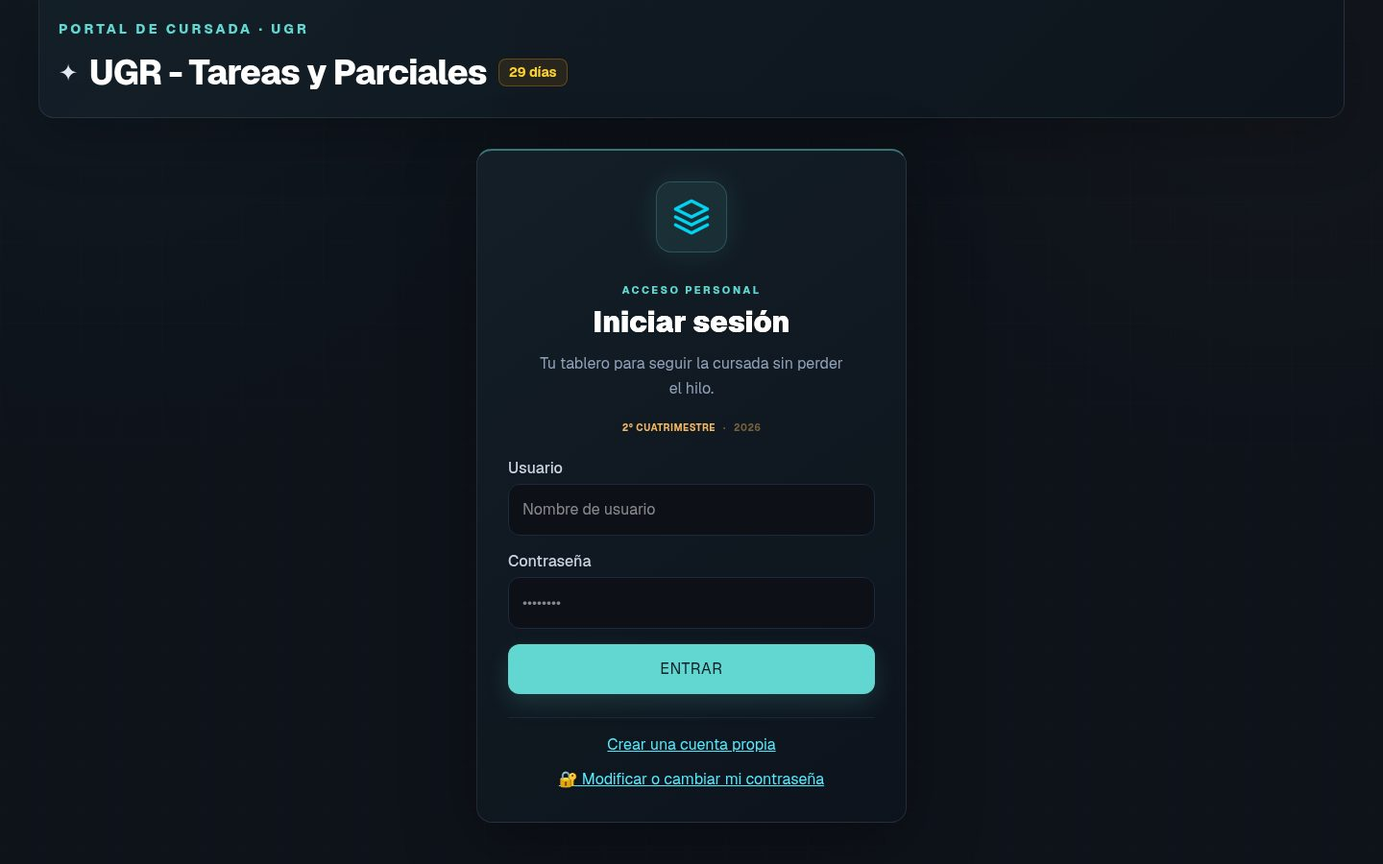
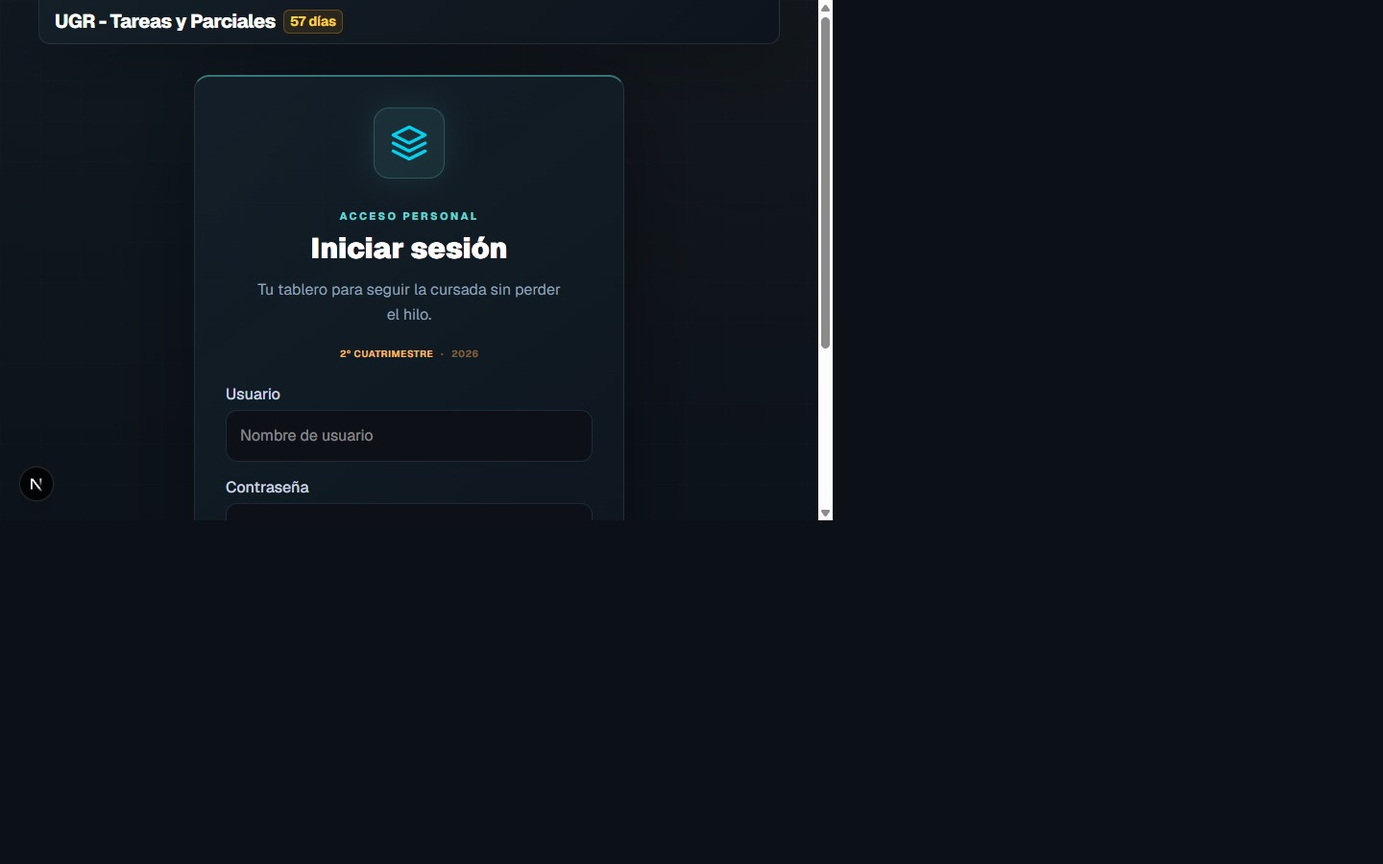
docs: actualiza documentacion y capturas del tablero
Los .md quedaron atrasados respecto a las ultimas funciones (constancias
de SIU, notas de foros calificados, enlace por docente) y las capturas
mostraban pantallas viejas.

- README: arbol actualizado, seccion de Solicitudes y constancias, regla
  del enlace por docente, nota de foros calificados y 'Que no hace' mas
  honesto. Se corrige que la migracion mas alta no esta al final del
  archivo (hoy es la 39) y que CI corre en Node 22.
- SECURITY: secretos, credenciales de terceros (UGR y SIU nunca se
  guardan), sesion, cuentas, headers y superficie.
- UGRTareas: seccion de constancias para la presentacion de la comision.
- CONTEXTO-IA, ugr-sync/README y GUIA-SINCRONIZACION: modulos nuevos.
- Capturas: se regeneran con datos reales y se agregan las de Solicitudes.
- Se borra listarSillasExamen, duplicado sin uso de listarMesasExamen.

diff --git a/README.md b/README.md
@@ -13,6 +13,7 @@ La presentación para la comisión está en [`UGRTareas.md`](UGRTareas.md). Este
 | Stack y arquitectura | [Stack](#stack) · [Topología](#topología) · [Árbol](#árbol) |
 | Datos y permisos | [Modelo de datos](#modelo-de-datos) · [Cuentas y sesión](#cuentas-y-sesión) · [Quién ve qué](#quién-ve-qué) |
 | Campus | [Sincronización](#sincronización-con-el-campus) · [`ugr-sync/README.md`](ugr-sync/README.md) |
+| Constancias | [Solicitudes y constancias](#solicitudes-y-constancias-siu-guaraní) |
 | Poner en marcha | [Entorno](#entorno) · [Local](#correr-en-local) · [Vercel](#despliegue-vercel-hobby) |
 | Repo público | [Qué queda fuera de Git](#repositorio-público-y-qué-queda-fuera-de-git) |
 | Contexto para IAs / handoff | [`docs/CONTEXTO-IA.md`](docs/CONTEXTO-IA.md) |
@@ -21,7 +22,7 @@ La presentación para la comisión está en [`UGRTareas.md`](UGRTareas.md). Este
 
 | Capa | Versión / elección |
 | --- | --- |
-| Runtime | Node 20+ |
+| Runtime | Node 20+ (CI en Node 22) |
 | App | Next.js 16.3.8 (App Router, Turbopack en `next dev`), React 19.2.8 |
 | Lenguaje de la app | TypeScript. El compilador de chequeo es TypeScript 7 (`@typescript/native` → `npm:typescript@^7.0.2`). El paquete `typescript` es el API 6 (`npm:@typescript/typescript6@^6.0.2`) porque ESLint / typescript-eslint no hablan la API de TS 7 |
 | Estilos | Tailwind CSS 4 (`@tailwindcss/postcss`) |
@@ -65,6 +66,7 @@ src/hooks/useTableroPortal.ts  carga, sync, acciones y derivados
 src/hooks/tablero-acciones/  handlers por dominio (alumnos, tareas, parciales, …)
 src/hooks/useTableroAcciones.ts  compone los handlers del tablero
 src/app/actions.tsx       Server Actions, sesión, rate limit, borrado
+src/app/actions/          por dominio: auth, estado, evaluaciones, materias, horarios, sync
 src/app/turso.ts          cliente HTTP de Turso
 src/app/plan-utils.ts     PLAN_DE_ESTUDIO (códigos y correlativas)
 src/app/validators.ts     notas, unidades, habilitación de tarea/parcial
@@ -75,24 +77,30 @@ src/lib/cuentas.ts        limpieza 7 días sin sync UGR, tope por IP, SQL de bor
 src/lib/seguridad.ts      claves temporales, validación HH:MM (sin deps de Next)
 src/lib/grupos-tareas.ts  alta/baja de grupo dentro de una transacción
 src/components/           vistas (estado, materias, grupos, plan, …)
+src/components/portal/ModalOverlay.tsx  base de los modales (variantes sheet/compact/panel)
 ugr-sync/lib/             parsers y núcleo de sync (ver su README)
 ugr-sync/scripts/         CLI login y sync
-database/migrate.mjs      migraciones numeradas, idempotentes (ver último número en el archivo)
+siu-sync/lib/             plan de estudio, constancias y certificados de Guaraní
+database/migrate.mjs      migraciones numeradas, idempotentes (el nº más alto está en el archivo)
 database/planes-cronograma-comision.mjs  planes oficiales (manual) por materia de la comisión
 database/enlaces-clase-comision.json   catálogo Zoom/URL de clase (calendario + sync)
 database/cronograma-higiene.mjs        limpieza de cronograma importado
 database/grupos-schema.mjs
 src/lib/enlaces-clase-comision.ts      resuelve enlace por materia/horario/docente
+src/lib/constancias-vigentes.ts        vigencias y nombres de las constancias de SIU
 src/lib/promocion-materia.ts           reglas de promoción y parcial rendido
+src/lib/importar-plan-siu.ts           importador de notas del plan desde SIU
 ugr-sync/lib/zoom-enlaces-comision.mjs  aplica catálogo a horarios.url_clase
 ugr-sync/lib/zoom-cursada.mjs          empareja enlace con día/hora de cursada
+ugr-sync/lib/foros-notas.mjs           nota de cada publicación en un foro calificado
 tests/                    tests de la app
 ugr-sync/test/            tests del sync, con fixtures HTML de Moodle
+siu-sync/test/            tests de SIU Guaraní
 ```
 
 ## Modelo de datos
 
-SQLite en Turso. Las migraciones viven en `database/migrate.mjs` y se registran en `migraciones(numero, nombre, aplicada_en)`. Correr dos veces no reejecuta un número ya insertado. El **último número** está al final de `migrate.mjs`.
+SQLite en Turso. Las migraciones viven en `database/migrate.mjs` y se registran en `migraciones(numero, nombre, aplicada_en)`. Correr dos veces no reejecuta un número ya insertado. El **número más alto** está en `database/migrate.mjs` (hoy, 39); el orden en el archivo no importa porque el registro de aplicadas es lo que evita el reejecución.
 
 Identidad y cursada:
 
@@ -173,7 +181,7 @@ Un alumno no escribe entregas ni notas propias. Esas filas las escribe el sync (
 
 Un botón **Sincronizar** (UGR o SIU). Ninguna ruta persiste DNI ni contraseña de UGR en la base.
 
-**Alumno** — `sincronizarCuentaUgrAction(dni, password)` o `sincronizarCuentaSiuAction(usuario, password)`. UGR usa `conectarUGRCon({ usuario, contrasena, rutaSesion: null })`: jar aislado, no pisa la cookie de la comisión. Si Moodle rechaza el login, la action responde “UGR Virtual no aceptó ese DNI o contraseña” y no loguea las credenciales. Una sync buena reemplaza las inscripciones del período actual (`inscribirAlumnoEnPeriodo`): la cursada queda en lo que el campus dice ahora. **SIU** hoy solo importa el **plan de estudio** (historia académica / materias en curso); inscripciones a exámenes en Guaraní no se leen aún (`inscripcionesExamenes` queda vacío).
+**Alumno** — `sincronizarCuentaUgrAction(dni, password)` o `sincronizarCuentaSiuAction(usuario, password)`. UGR usa `conectarUGRCon({ usuario, contrasena, rutaSesion: null })`: jar aislado, no pisa la cookie de la comisión. Si Moodle rechaza el login, la action responde “UGR Virtual no aceptó ese DNI o contraseña” y no loguea las credenciales. Una sync buena reemplaza las inscripciones del período actual (`inscribirAlumnoEnPeriodo`): la cursada queda en lo que el campus dice ahora. **SIU** importa el **plan de estudio** (historia académica / materias en curso) y, por separado, habilita el pedido de constancias (ver [Solicitudes y constancias](#solicitudes-y-constancias-siu-guaraní)); inscripciones a exámenes en Guaraní no se leen aún (`inscripcionesExamenes` queda vacío).
 
 **UGR en varias pasadas (cuenta propia y admin en la UI):** un solo botón **Sincronizar** encadena varias server actions para no superar el techo de **60 s por request** (`maxDuration` en `layout.tsx`). Orden: `fase: 'preparar'` (login, inscripciones, lista de materias) → varios lotes `fase: 'materias'` con `materiaIds` (tamaño de lote en `src/lib/sync-ugr-orquestacion.ts`, típicamente 2 materias; 3 si hay muchas) → lotes `fase: 'avisos'`. El texto de progreso habla de pasadas (p. ej. “materias 1/4”), no del total de materias de la cursada. SIU sigue siendo una sola action. Detalle en `src/server/sync-ugr-cursada.ts` y `src/components/CuentaPropia.tsx`.
 
@@ -194,7 +202,38 @@ Reglas de escritura:
 - Tarea ya existente: no se duplica. Se actualiza la fecha si el campus trae una fecha distinta. Una fecha vacía del campus **no borra** la fecha guardada (`fechasACorregir`).
 - Nombre con “parcial” o “evaluación” (`pareceEvaluacion`): es parcial, no tarea con apertura y cierre. Se rinde **un** día de clase. Si apertura y cierre difieren, se queda el día cuyo weekday coincide con `horarios.dia` (1 = lunes … 5 = viernes). La nota no se pide hasta ese día (`parcialYaSeRindio`). La fecha del parcial se relee en cada sync desde la página de la actividad.
 - Nota con `cerrada = 1`: no se vuelve a consultar. Al verificarla contra la libreta se cierra.
+- **Foro con calificación:** la nota no está en el índice del foro. Cada publicación se califica por separado y Moodle la publica en `span.ratingaggregate` dentro del post, junto a «Calificación máxima». `ugr-sync/lib/foros-notas.mjs` abre el índice, lista las discusiones, identifica la del alumno por su id de usuario (`data-userid` de la sesión del campus) y toma la nota de su publicación. Como la tarea del tablero apunta al índice, es el camino que usa `leerNotasDeEnlaces` cuando detecta un foro. Cada alumno recibe la suya, no la del curso.
 - Clase: duración fija **90 minutos** (`DURACION_CLASE_MINUTOS`). El inicio verdadero es el que declara el texto del enlace (`horarioDeclaradoEnTitulo`: “17 hs. a 18.30”, “a las 19 Hs”, “Viernes 18:00 hs”), no la ventana larga del calendario. Fin = inicio + 90. Un evento repetido cuya duración no es 90 y cuyo título no declara hora no es horario semanal. `ajustarClasesAlHorario` reescribe título y detalle de la clase; no toca “Se abre/Se cierra”, quizzes, `tipo === 'consulta'` ni filas “sin clases”. Si el título ya existe y solo cambió el rango, `insertarEventosCronograma` hace `UPDATE`, no inserta un duplicado.
+
+### Enlace sincrónico por docente
+
+El catálogo `database/enlaces-clase-comision.json` puede traer **varios enlaces para la misma materia**, distinguidos por `profesorClave` (`rodriguez`, `gianzone`). Es el caso de Ciberdelitos, donde el campus alterna Zoom según quién cursa.
+
+El runtime elige el enlace del docente que el plan del día menciona, aunque `horarios.url_clase` ya tenga un enlace general guardado: `resolverEnlaceClaseComision` (`src/lib/enlaces-clase-comision.ts`) compara el texto del plan contra la clave del catálogo y, si difieren, lo reemplaza. Sin esa precedencia, todos los días de Ciberdelitos abrirían el Zoom del mismo profesor.
+
+## Solicitudes y constancias (SIU Guaraní)
+
+El botón **📜 Solicitudes** (`src/components/portal/ModalSolicitudes.tsx`) permite pedir constancias de la carrera sin entrar a Guaraní a mano.
+
+Opciones del menú:
+
+| Opción | Dónde se resuelve |
+| --- | --- |
+| Constancia de examen parcial | Formulario externo de la cátedra. No pasa por SIU: el certificado llega por mail. |
+| Constancia de alumno regular | SIU Guaraní (Autogestión → Solicitudes → Nueva solicitud) |
+| Constancia de examen final | SIU Guaraní, con filtro de año, turno, materia y mesa |
+| Constancia de promedio académico | SIU Guaraní |
+| Constancia de promedio académico sin aplazos | SIU Guaraní |
+
+**Flujo:** el modal muestra primero las constancias que el alumno **ya tiene y siguen vigentes**, con su fecha de vencimiento, botón **📄 PDF** y botón **➕ Solicitar** (que abre el formulario con el tipo preseleccionado). Las vencidas no se listan: se avisa cuántas hay y que hay que pedirlas de nuevo. Para verlas o para registrar una solicitud hace falta conectar con SIU; el alumno escribe su usuario y clave, que no se persisten.
+
+**Admin:** puede marcar «Usar las credenciales de SIU del servidor» y no tipea nada: la action usa `SIU_USER` / `SIU_PASSWORD` del entorno. Con credenciales del servidor no se cuentan los intentos de login del usuario.
+
+**Descarga del PDF:** el enlace de SIU (`/solicitudes/descargar_comprobante/<id>`) exige la sesión del alumno —sin cookies responde 302 al login—, así que la descarga se hace en el servidor con la sesión de SIU y se devuelve en base64 al navegador. Por eso el cliente de red tiene un método aparte: `pedir` usa `text()`, que decodifica como UTF-8 y corrompe el PDF; `pedirBinario` (`siu-sync/lib/red.mjs`) lee los bytes crudos.
+
+El HTML de SIU llega con los caracteres del JSON sin developar (`\"`, `\/`, `\u00f3`) y con el layout del campus antes del contenido: `developirHtmlSiu` y `recortarFragmentoSiu` (`siu-sync/lib/constancias.mjs`) lo dejan parseable. Sin eso, el listado de solicitudes no se lee y el comprobante no aparece.
+
+**Qué no hace:** no emite constancias, solo registra la solicitud que la cátedra de Guaraní emite después. La constancia de examen parcial no se pide por acá (la emite la cátedra, por formulario).
 
 ## Entorno
 
@@ -208,7 +247,7 @@ Copiar [`.env.example`](.env.example) a `.env.local`. `.env*` está en `.gitigno
 | `ADMIN_USUARIO` | para migrate / reset | nombre exacto del admin a promover |
 | `UGRVIRTUAL_USER` | solo sync admin y CLI | usuario del campus de la comisión |
 | `UGRVIRTUAL_PASSWORD` | solo sync admin y CLI | clave de ese usuario. El alta de un alumno no la usa |
-| `SIU_USER` / `SIU_PASSWORD` | sync SIU (admin / importar plan) | Guaraní |
+| `SIU_USER` / `SIU_PASSWORD` | sync SIU (admin / importar plan) y constancias (admin) | Guaraní |
 | `SIU_BASE_URL` | no | default `https://guarani.ugr.edu.ar/3w` |
 | `TRUST_PROXY` | no | `1` si hay reverse proxy fuera de Vercel y querés rate limit por IP real |
 
@@ -285,6 +324,10 @@ Para mostrar el proyecto sin invitar a replicarlo: en el portfolio enlazá la **
 ## Qué no hace este servicio
 
 - No guarda el DNI ni la contraseña de UGR Virtual. Entran en memoria durante `sincronizarCuentaUgrAction` y se descartan.
+- No guarda el usuario ni la contraseña de SIU Guaraní. Si el admin usa las credenciales del servidor, tampoco salen del entorno.
 - No es la entrega. El enlace abre la actividad en el campus.
 - No reconsulta una nota ya cerrada.
 - No deja que un alumno marque su propia entrega o su nota de cátedra. El admin sí puede corregir filas.
+- No emite constancias: registra la solicitud en Guaraní y descarga el comprobante cuando la cátedra lo emite. La constancia de examen parcial la emite la cátedra, por su propio formulario.
+- No lee inscripciones a exámenes de Guaraní (`inscripcionesExamenes` queda vacío).
+- No es un LMS ni reemplaza al campus: el tablero ordena lo que el campus ya publica.

diff --git a/SECURITY.md b/SECURITY.md
@@ -1,7 +1,43 @@
 # Seguridad
 
-- **Secretos:** nunca en Git. Usá `.env.local` en desarrollo y variables de entorno en Vercel. Ver `.env.example`.
-- **Repo público:** el código es visible; la instancia en producción no se expone por el clone. Detalle en [README — Repositorio público](README.md#repositorio-público-y-qué-queda-fuera-de-git).
-- **Incidentes:** si creés que filtraste un token (`TURSO_AUTH_TOKEN`, `SESSION_SECRET`, clave de campus), rotalo en Turso/Vercel y redeploy. `SESSION_SECRET` nuevo invalida todas las cookies del portal.
+## Secretos
+
+- **Nunca en Git.** Usá `.env.local` en desarrollo y variables de entorno en Vercel. Ver `.env.example`.
+- Lo que el repo **sí** expone (y es normal, porque el código es público a propósito): cómo se valida la sesión, los rate limits, los parsers de Moodle y Guaraní, y el esquema SQL. Eso ayuda a auditar. La defensa en producción son los **secretos en el entorno**, los permisos de Turso, HTTPS y los límites del servidor desplegado.
+- Lo que el repo **no** expone: `TURSO_*`, `SESSION_SECRET`, `UGRVIRTUAL_*`, `SIU_*`, `ADMIN_USUARIO`, la base de datos y las cookies de Moodle de la comisión. Detalle en [README — Repositorio público](README.md#repositorio-público-y-qué-queda-fuera-de-git).
+
+## Credenciales de terceros
+
+El tablero maneja dos juegos de credenciales ajenas, y en los dos casos el patrón es el mismo: **entran en memoria, se usan para esa operación y se descartan**.
+
+| Credencial | Quién la tipea | Dónde vive |
+| --- | --- | --- |
+| DNI y clave de UGR Virtual | Cada alumno, en el modal de sincronización | Solo en el request. No se guardan en la base ni en disco. |
+| Usuario y clave de SIU Guaraní | Cada alumno, en el modal de Solicitudes | Solo en el request. No se guardan en la base ni en disco. |
+
+El **admin** puede, en ambos casos, usar las credenciales del servidor (`UGRVIRTUAL_*`, `SIU_USER` / `SIU_PASSWORD`) sin tipear nada: viven en el entorno y solo las lee el servidor.
+
+## Sesión y cuentas
+
+- Cookie de sesión: `httpOnly`, `sameSite=lax`, `secure` en producción, con HMAC-SHA256 y expiración de 30 minutos. Cada request compara la `sesion_version` del alumno: cambiar la contraseña invalida las cookies anteriores.
+- Contraseñas de cuenta: scrypt con salt por usuario y comparación en tiempo constante. **No** son las claves del campus.
+- Rate limit por usuario y por IP en login, altas y acciones de escritura.
+- Topes de cuentas propias por IP y **borrado automático a los 7 días sin sincronizar con UGR Virtual**. Entrar al tablero no alcanza: tiene que haber un sync. El admin queda fuera de esa regla.
+- El password del admin no va hardcodeado: se promueve por migración con `ADMIN_USUARIO` y se rota con `npm run admin:reset-password`.
+
+## Lo que el servicio no hace
+
+- No guarda credenciales de campus ni de Guaraní.
+- No deja que un alumno escriba su propia entrega ni su propia nota de cátedra: eso lo escribe el sync o el admin.
+- No reconsulta una nota ya cerrada.
+- No expone una API de estudiantes: el campus no tiene una, y el sync reutiliza la sesión HTTP de Moodle. Por eso la app es la única forma de escribir en la base, y toda escritura pasa por Server Actions con sesión y rate limit.
+
+## Headers y superficie
+
+`X-Frame-Options: DENY`, `nosniff`, `Referrer-Policy: strict-origin-when-cross-origin`, COOP/CORP `same-origin`, `Permissions-Policy` sin cámara/micrófono/geo, HSTS de 2 años, CSP con `default-src 'self'` y `robots: noindex, nofollow`. El layout declara `maxDuration = 60`: es el tope de cada Server Action en Vercel Hobby, y el sync encadena varias invocaciones para no pasarse.
+
+## Incidentes
+
+Si creés que filtraste un token (`TURSO_AUTH_TOKEN`, `SESSION_SECRET`, clave de campus o de Guaraní), rotalo en Turso/Vercel y redeployá. Un `SESSION_SECRET` nuevo invalida todas las cookies del portal.
 
 No reportes vulnerabilidades en issues públicos con datos de producción; contactá al mantenedor del deploy de la comisión.

diff --git a/docs/CONTEXTO-IA.md b/docs/CONTEXTO-IA.md
@@ -15,20 +15,28 @@ Tablero Next.js + Turso para la Tecnicatura en Ciberseguridad (UGR). Los alumnos
 | Ruta | Rol |
 |------|-----|
 | `src/app/` | App Router, Server Actions, Turso |
+| `src/app/actions/constancias.ts` | Solicitudes y descargas de constancias de SIU |
 | `src/components/portal/` | Tablero (pestañas, campana, sync) |
+| `src/components/portal/ModalOverlay.tsx` | Base de modales: `sheet`, `compact`, `panel` (header/footer fijos) |
+| `src/components/portal/ModalSolicitudes.tsx` | Menú de constancias: vigentes, PDF, alta y filtros |
 | `src/components/VistaHorarios.tsx` | Calendario mensual + modal del día |
 | `src/lib/calendario-tablero.ts` | Qué eventos caen en cada día |
 | `src/lib/cronograma-vista.ts` | Filtra ruido del cronograma; tema de clase junto a «Cursada» |
 | `src/lib/promocion-materia.ts` | Reglas de promoción / regularización |
 | `src/lib/notificaciones-tablero.ts` | Campana (parciales, vencimientos, avisos) |
-| `src/lib/enlaces-clase-comision.ts` | URLs de Zoom/aula para el calendario |
+| `src/lib/enlaces-clase-comision.ts` | URLs de Zoom/aula; elige por docente del plan |
+| `src/lib/constancias-vigentes.ts` | Vigencia y nombres de las constancias de SIU |
+| `src/lib/importar-plan-siu.ts` | Importa notas del plan desde SIU |
 | `database/migrate.mjs` | Migraciones numeradas (último nº al final del archivo) |
 | `database/planes-cronograma-comision.mjs` | Plan manual por materia (prioridad sobre PDF) |
 | `database/enlaces-clase-comision.json` | **Catálogo único** de enlaces sincrónicos |
 | `database/cronograma-higiene.mjs` | Limpia basura de PDFs importados |
+| `siu-sync/lib/constancias.mjs` | Constancias de Guaraní: tipos, mesas, alta, listado, PDF |
+| `siu-sync/lib/red.mjs` | Cliente SIU; `pedirBinario` para los PDF |
 | `ugr-sync/lib/cronograma-oficial.mjs` | PDF/DOCX + Zoom del campus |
 | `ugr-sync/lib/zoom-cursada.mjs` | Empareja enlace ↔ día/hora de cursada |
 | `ugr-sync/lib/zoom-enlaces-comision.mjs` | Lee el JSON y escribe `horarios.url_clase` |
+| `ugr-sync/lib/foros-notas.mjs` | Nota de cada publicación en un foro calificado |
 
 ---
 
@@ -111,7 +119,7 @@ Botón **📜 Solicitudes** en la barra del portal (`BarraSesionPortal.tsx`) →
 - **Descarga del comprobante en PDF:** cada solicitud con comprobante tiene un botón «📄 PDF». El enlace de SIU exige la sesión del alumno (sin cookies responde 302 al login), así que se descarga en el servidor con `pedirBinario` (lee los bytes crudos; `pedir` usa `text()` y corrompe el PDF) y se devuelve en base64 al navegador.
 - **Constancias vigentes:** al abrir el modal, el menú muestra las constancias que el alumno ya tiene y siguen vigentes (por fecha de vencimiento), con botón «📄 PDF» y «➕ Solicitar» para pedir otra del mismo tipo. Las vencidas se avisan aparte.
 - Lógica de vigencia y de mapeo de nombres en `src/lib/constancias-vigentes.ts` (tests en `tests/constancias-vigentes.test.mjs`).
-- El HTML de SIU llega con los escapes del JSON sin developer (`\"`, `\/`, `\u00f3`) y con el layout del campus antes del contenido: `developirHtmlSiu` y `recortarFragmentoSiu` lo dejan parseable.
+- El HTML de SIU llega con los escapes del JSON sin developar (`\"`, `\/`, `\u00f3`) y con el layout del campus antes del contenido: `developirHtmlSiu` y `recortarFragmentoSiu` lo dejan parseable.
 - Capa de red: `siu-sync/lib/constancias.mjs` (tipos, copias, filtro de mesa de examen, alta y listado). Server Actions en `src/app/actions/constancias.ts`.
 - La constancia de examen final exige elegir año, turno, materia y mesa (`llamado_mesa`); el campus devuelve la lista de mesas en `llamado_examen`.
 - Tests: `siu-sync/test/constancias.test.mjs`.

diff --git a/ugr-sync/docs/GUIA-SINCRONIZACION.md b/ugr-sync/docs/GUIA-SINCRONIZACION.md
@@ -71,6 +71,7 @@ Flags: `--yes`, `--dry`, `--cronogramas`.
 | `assign-entregas.mjs` | Buzones assign con varias entregas (SGSI, etc.) |
 | `docx-texto.mjs` | Texto desde DOCX sin dependencias pesadas |
 | `cronograma-oficial.mjs` | Recurso «Cronograma», PDF/Word → `cronograma_eventos` + Zoom en `horarios.url_clase` |
+| `foros-notas.mjs` | Nota de cada publicación en un foro calificado (`span.ratingaggregate`) |
 
 ### Núcleo de negocio (con DB)
 
@@ -145,6 +146,8 @@ Fixtures HTML reales en `ugr-sync/test/fixtures/`. Tras cambiar parsers, actuali
 
 `siu-sync/` es **otro** módulo (`siu-sync/lib/sync-core.mjs`): plan de estudio y notas SIU Guaraní. No importa desde `ugr-sync/lib/sync-core.mjs` salvo tests viejos que deben apuntar a `siu-sync`.
 
+`siu-sync/lib/constancias.mjs` es una piece aparte de ese módulo: el flujo de **constancias y certificados** de Guaraní (Autogestión → Solicitudes). Tips de constancia, cantidad de copias, filtro de mesa de examen, alta de la solicitud y descarga del comprobante en PDF. Server Actions en `src/app/actions/constancias.ts`.
+
 ## Cuando algo falla
 
 | Síntoma | Dónde mirar |
@@ -156,6 +159,8 @@ Fixtures HTML reales en `ugr-sync/test/fixtures/`. Tras cambiar parsers, actuali
 | Cronograma con ruido | `cronograma-higiene.mjs`, `npm run ugr:cronogramas` |
 | Aviso no aparece | `avisos-detectar.mjs`, estado en `avisos_moodle` |
 | Nota assign multi-entrega | `assign-entregas.mjs`, `sincronizarHitosAssignEnMaterias` |
+| Nota de foro no llega | `foros-notas.mjs`: el enlace debe ser el índice (`/mod/forum/view.php?id=N`) y el post debe traer `span.ratingaggregate` con la nota |
+| Constancia de SIU no se registra | `siu-sync/lib/constancias.mjs`: el HTML de Guaraní viene con escapes del JSON sin developar; revisar `developirHtmlSiu` y `recortarFragmentoSiu` |
 
 ## Mantenimiento habitual
 

diff --git a/UGRTareas.md b/UGRTareas.md
@@ -74,6 +74,28 @@ A partir de ahí, cada sincronización vuelve a mirar el campus: fechas nuevas, 
 
 **Actividad mínima:** cada semana tenés que sincronizar con UGR Virtual al menos una vez; si no, la cuenta se borra sola (junto con tus notas y progreso en el tablero). Solo mirar el tablero no alcanza. El admin no entra en esa regla. Así el tablero refleja campus al día.
 
+## Constancias, sin entrar a Guaraní
+
+El botón **📜 Solicitudes** te ahorra el paseo por Guaraní.
+
+![Menú de solicitudes de constancias](docs/capturas/solicitudes-menu.jpg)
+
+Primero te muestra **las constancias que ya tenés y siguen vigentes**, con la fecha de vencimiento y un botón para bajar el PDF. Si la necesitás para otro motivo (un trabajo, un colectivo), el botón **➕ Solicitar** te deja pedir otra del mismo tipo sin volver atrás.
+
+![Formulario de solicitud de constancia](docs/capturas/solicitudes-formulario.jpg)
+
+Las cinco opciones disponibles:
+
+| Constancia | Dónde se pide |
+| --- | --- |
+| Examen parcial | Formulario de la cátedra (el certificado llega por mail) |
+| Alumno regular | Acá, directo en Guaraní |
+| Examen final | Acá, eligiendo año, turno, materia y mesa |
+| Promedio académico | Acá, directo en Guaraní |
+| Promedio académico sin aplazos | Acá, directo en Guaraní |
+
+Para usarlo, entrás con tu usuario y clave de Guaraní en el mismo modal. **No se guardan**: se usan para esa operación y se descartan.
+
 ---
 
 Documentación técnica, despliegue y seguridad: [`README.md`](README.md) · [`SECURITY.md`](SECURITY.md)

diff --git a/ugr-sync/README.md b/ugr-sync/README.md
@@ -23,6 +23,7 @@ ugr-sync/
 │   ├── cronograma-oficial.mjs   # PDF/Word + Zoom
 │   ├── zoom-enlaces-comision.mjs  # catálogo JSON → horarios.url_clase
 │   ├── zoom-cursada.mjs         # emparejar enlace ↔ horario semanal
+│   ├── foros-notas.mjs          # nota de cada publicación en un foro calificado
 │   ├── constantes.mjs, red.mjs, autenticar.mjs, …
 │   └── parsers: materias, tareas, calendario, avisos, …
 ├── scripts/
@@ -90,6 +91,11 @@ node --test ugr-sync/test
    hoy en adelante, además se sugiere el evento al cronograma (consulta,
    encuentro, entrega, examen, «sin clases»). Las fechas de vencimiento se leen
    en hora de Argentina, que es la que muestra el campus.
+6. **Trae la nota de los foros calificados**: en un foro con calificación (ej.
+   «Hallazgos de la Semana») la nota no está en el índice sino en cada
+   publicación (`span.ratingaggregate`). `lib/foros-notas.mjs` abre el índice,
+   identifica la discusión del alumno por su id de usuario y toma la nota de su
+   post. Cada alumno recibe la suya.
 
 El recorrido es **paralelo** (concurrencia 4): overviews de todos los cursos,
 índices de foros, páginas de foro y post de cada hilo se piden de a cuatro. Además,
